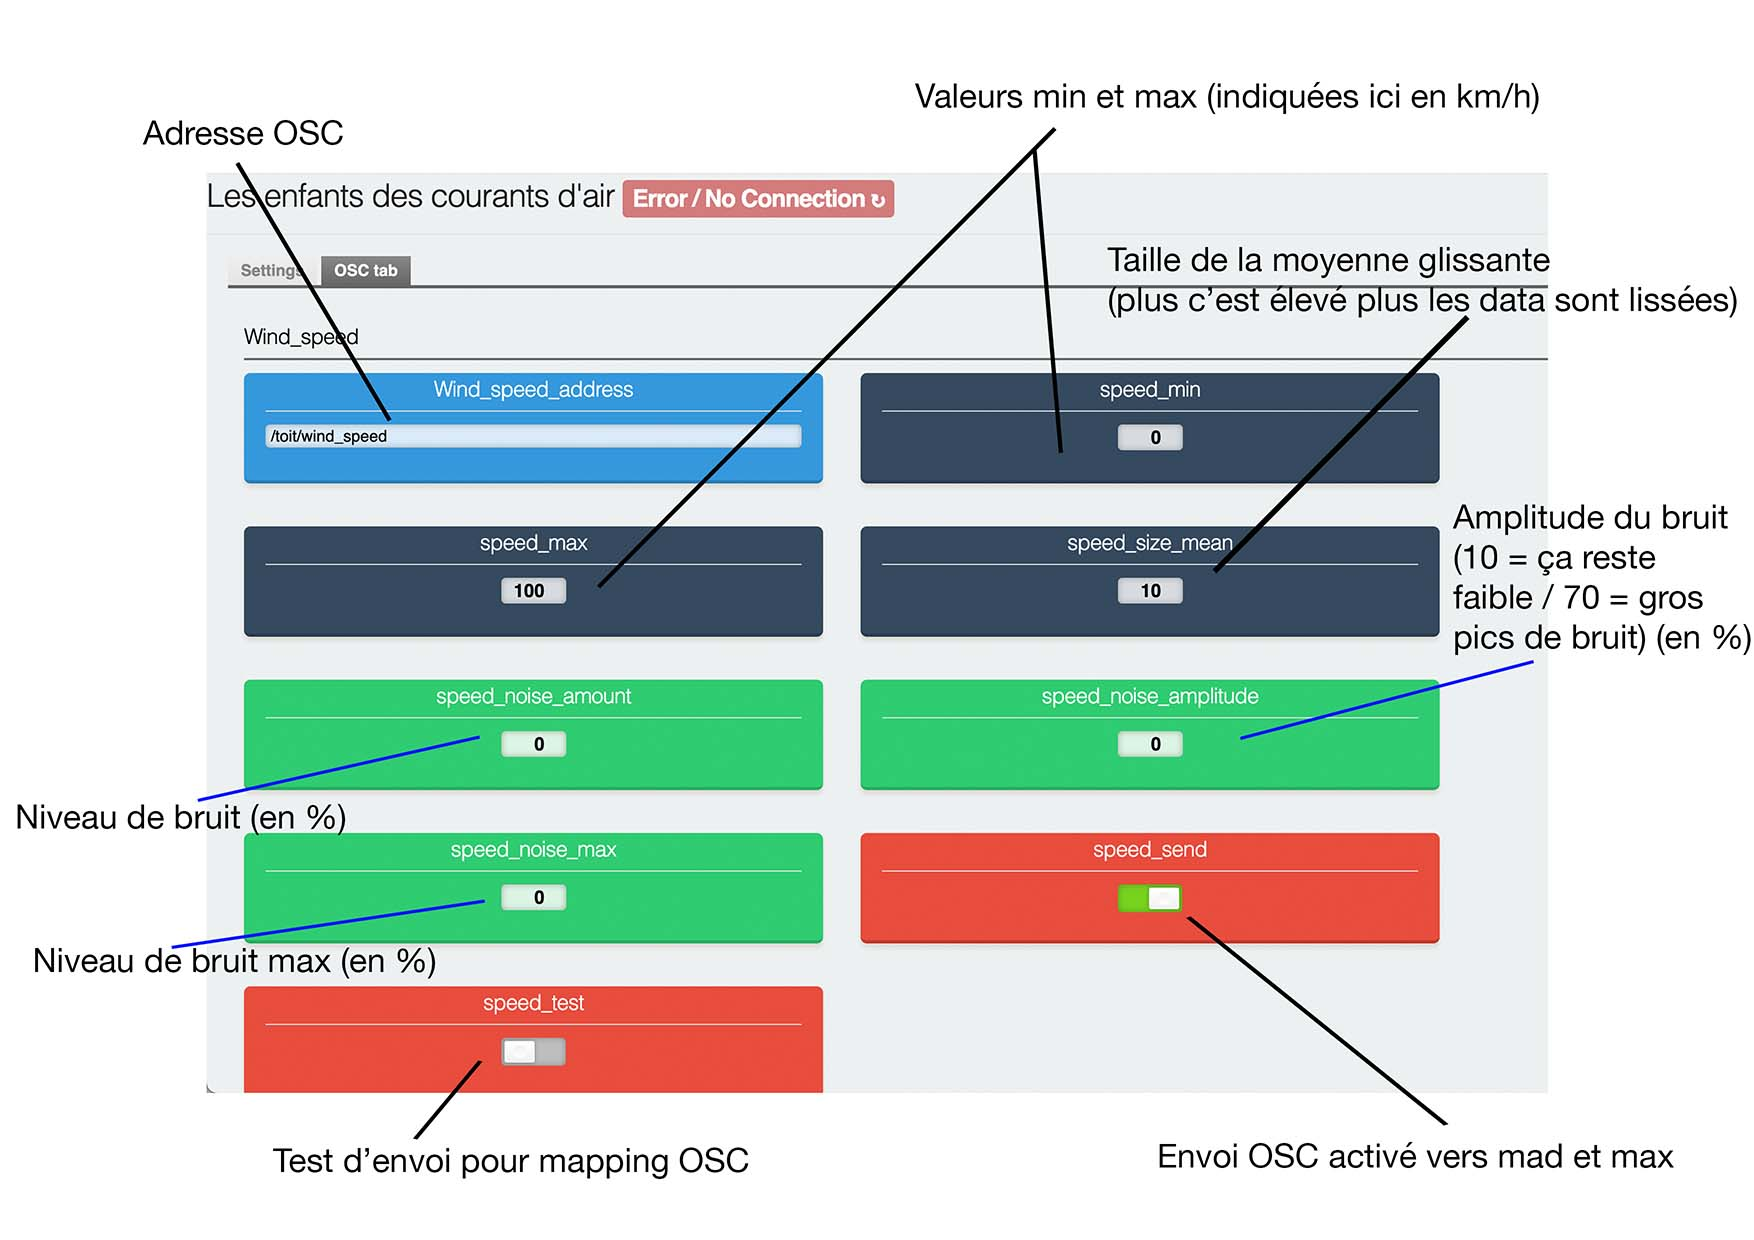
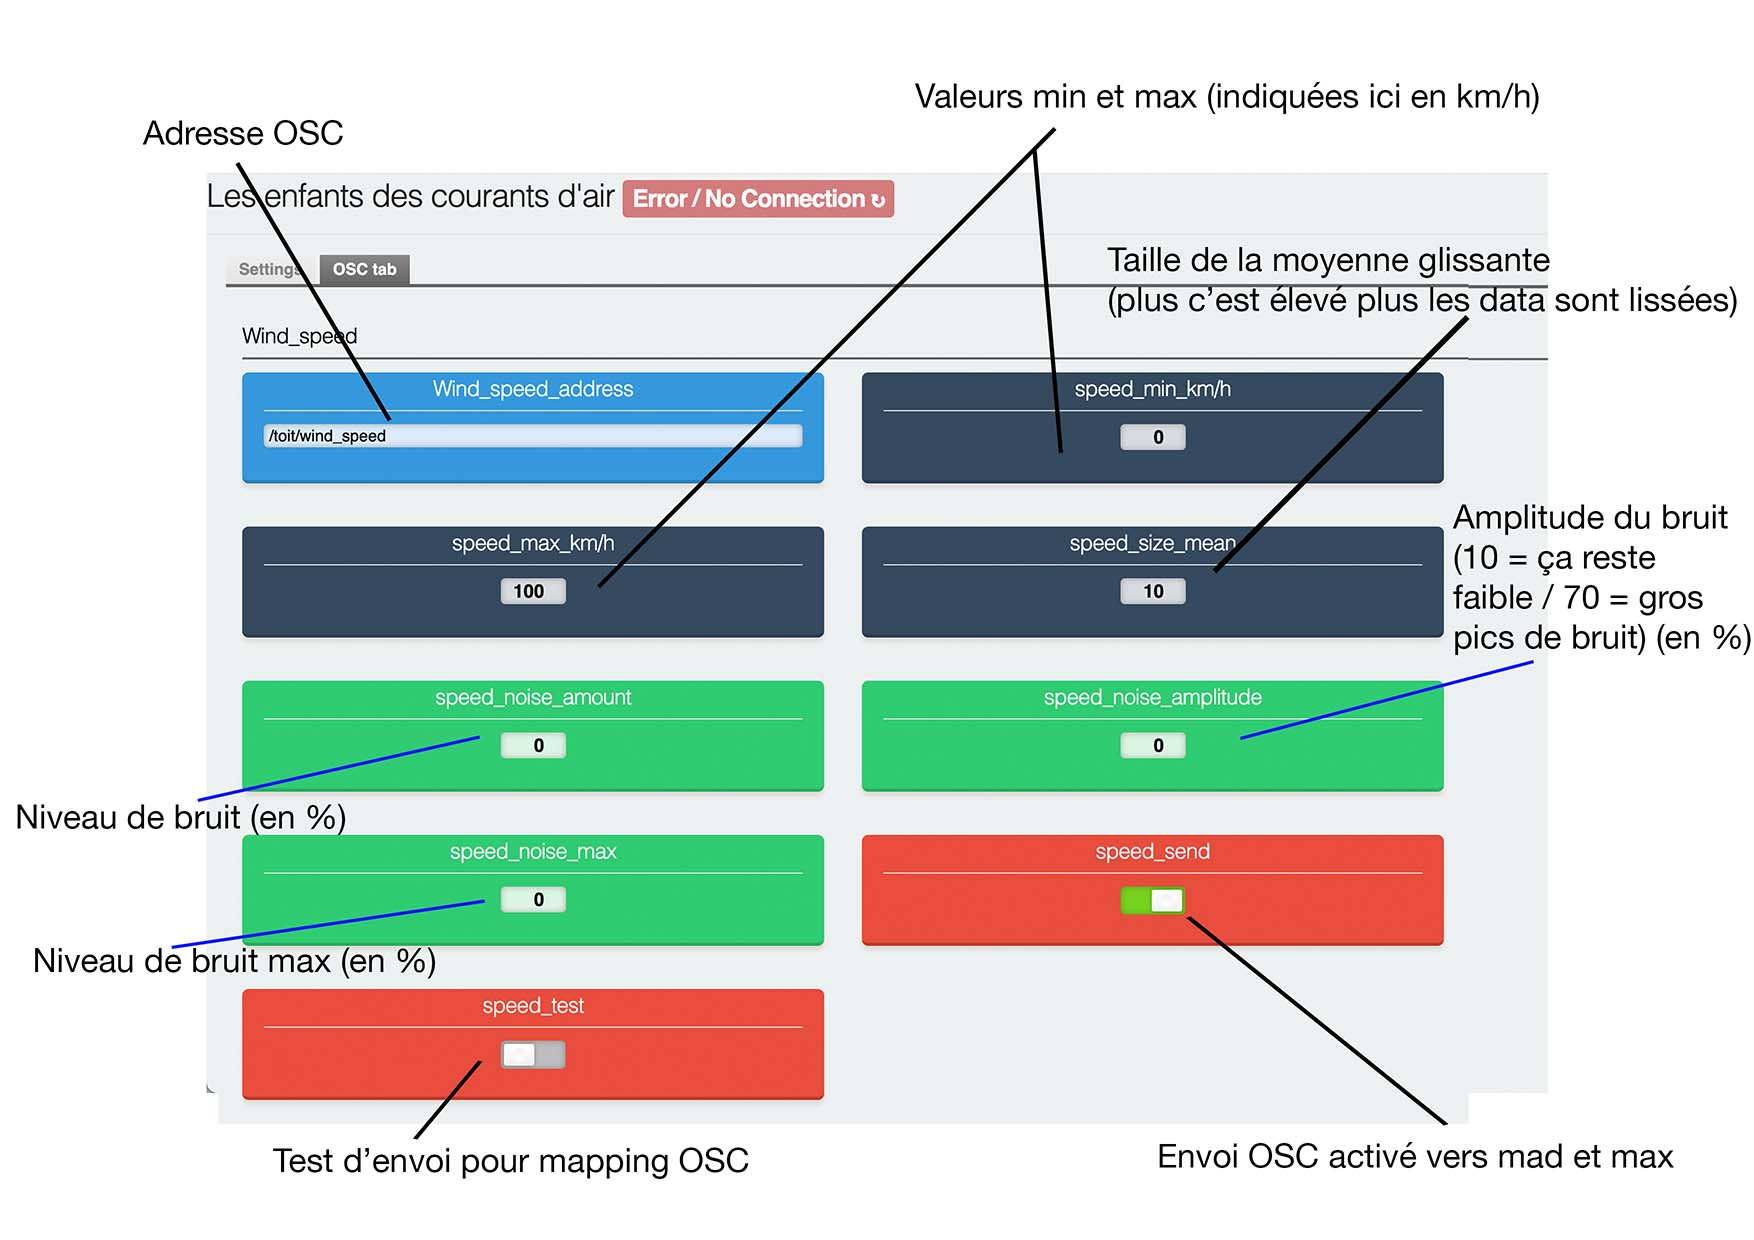
[UPDATE] tuto pics

diff --git a/src/define_functions.h b/src/define_functions.h
@@ -78,8 +78,8 @@ void addOscControls(int startIdx, int endIdx, uint16_t tabId) {
     String short_label = baseOscParams[i].name.substring(5);
     String type = baseOscParams[i].dataType;
     oscParams[i].address = new PersistentValue(label + "_address", ControlColor::Peterriver, baseOscParams[i].address, tabId);
-    oscParams[i].minVal = new PersistentValue(short_label + "_min", ControlColor::Wetasphalt, baseOscParams[i].minVal, baseOscParams[i].minVal, baseOscParams[i].maxVal, tabId);
-    oscParams[i].maxVal = new PersistentValue(short_label + "_max", ControlColor::Wetasphalt, baseOscParams[i].maxVal, baseOscParams[i].minVal, baseOscParams[i].maxVal, tabId);
+    oscParams[i].minVal = new PersistentValue(short_label + "_min_" + type, ControlColor::Wetasphalt, baseOscParams[i].minVal, baseOscParams[i].minVal, baseOscParams[i].maxVal, tabId);
+    oscParams[i].maxVal = new PersistentValue(short_label + "_max_" + type, ControlColor::Wetasphalt, baseOscParams[i].maxVal, baseOscParams[i].minVal, baseOscParams[i].maxVal, tabId);
     oscParams[i].sizeMean = new PersistentValue(short_label + "_size_mean", ControlColor::Wetasphalt, 10, 1, 100, tabId);
     oscParams[i].noiseAmount = new PersistentValue(short_label + "_noise_amount", ControlColor::Emerald, baseOscParams[i].noiseAmount, 0, 100, tabId);
     oscParams[i].noiseAmplitude = new PersistentValue(short_label + "_noise_amplitude", ControlColor::Emerald, baseOscParams[i].noiseAmplitude, 0, 100, tabId);
